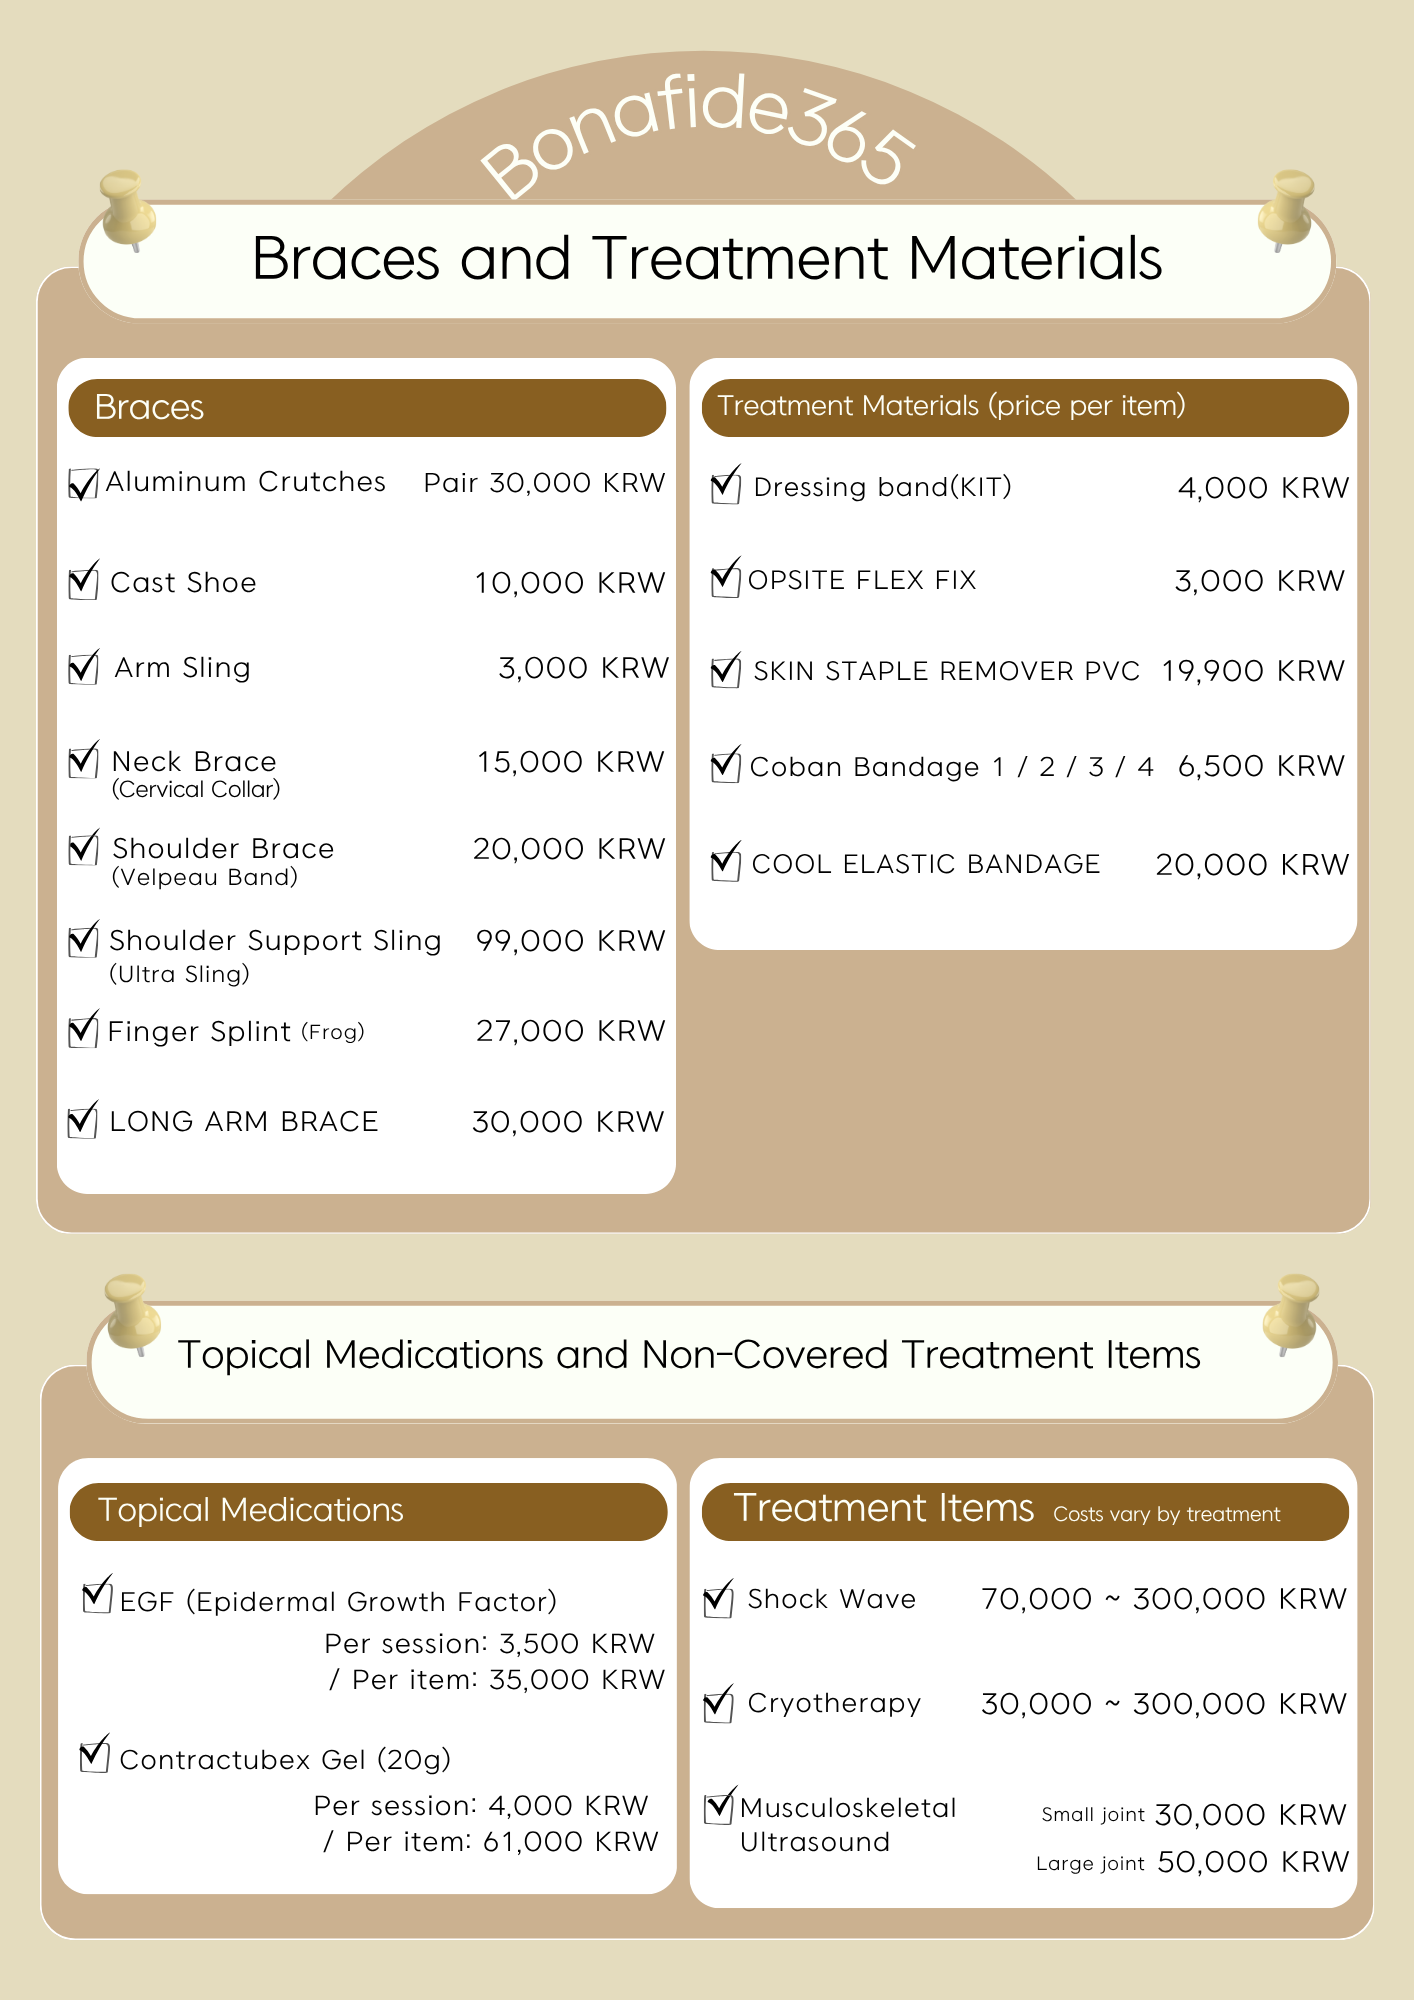
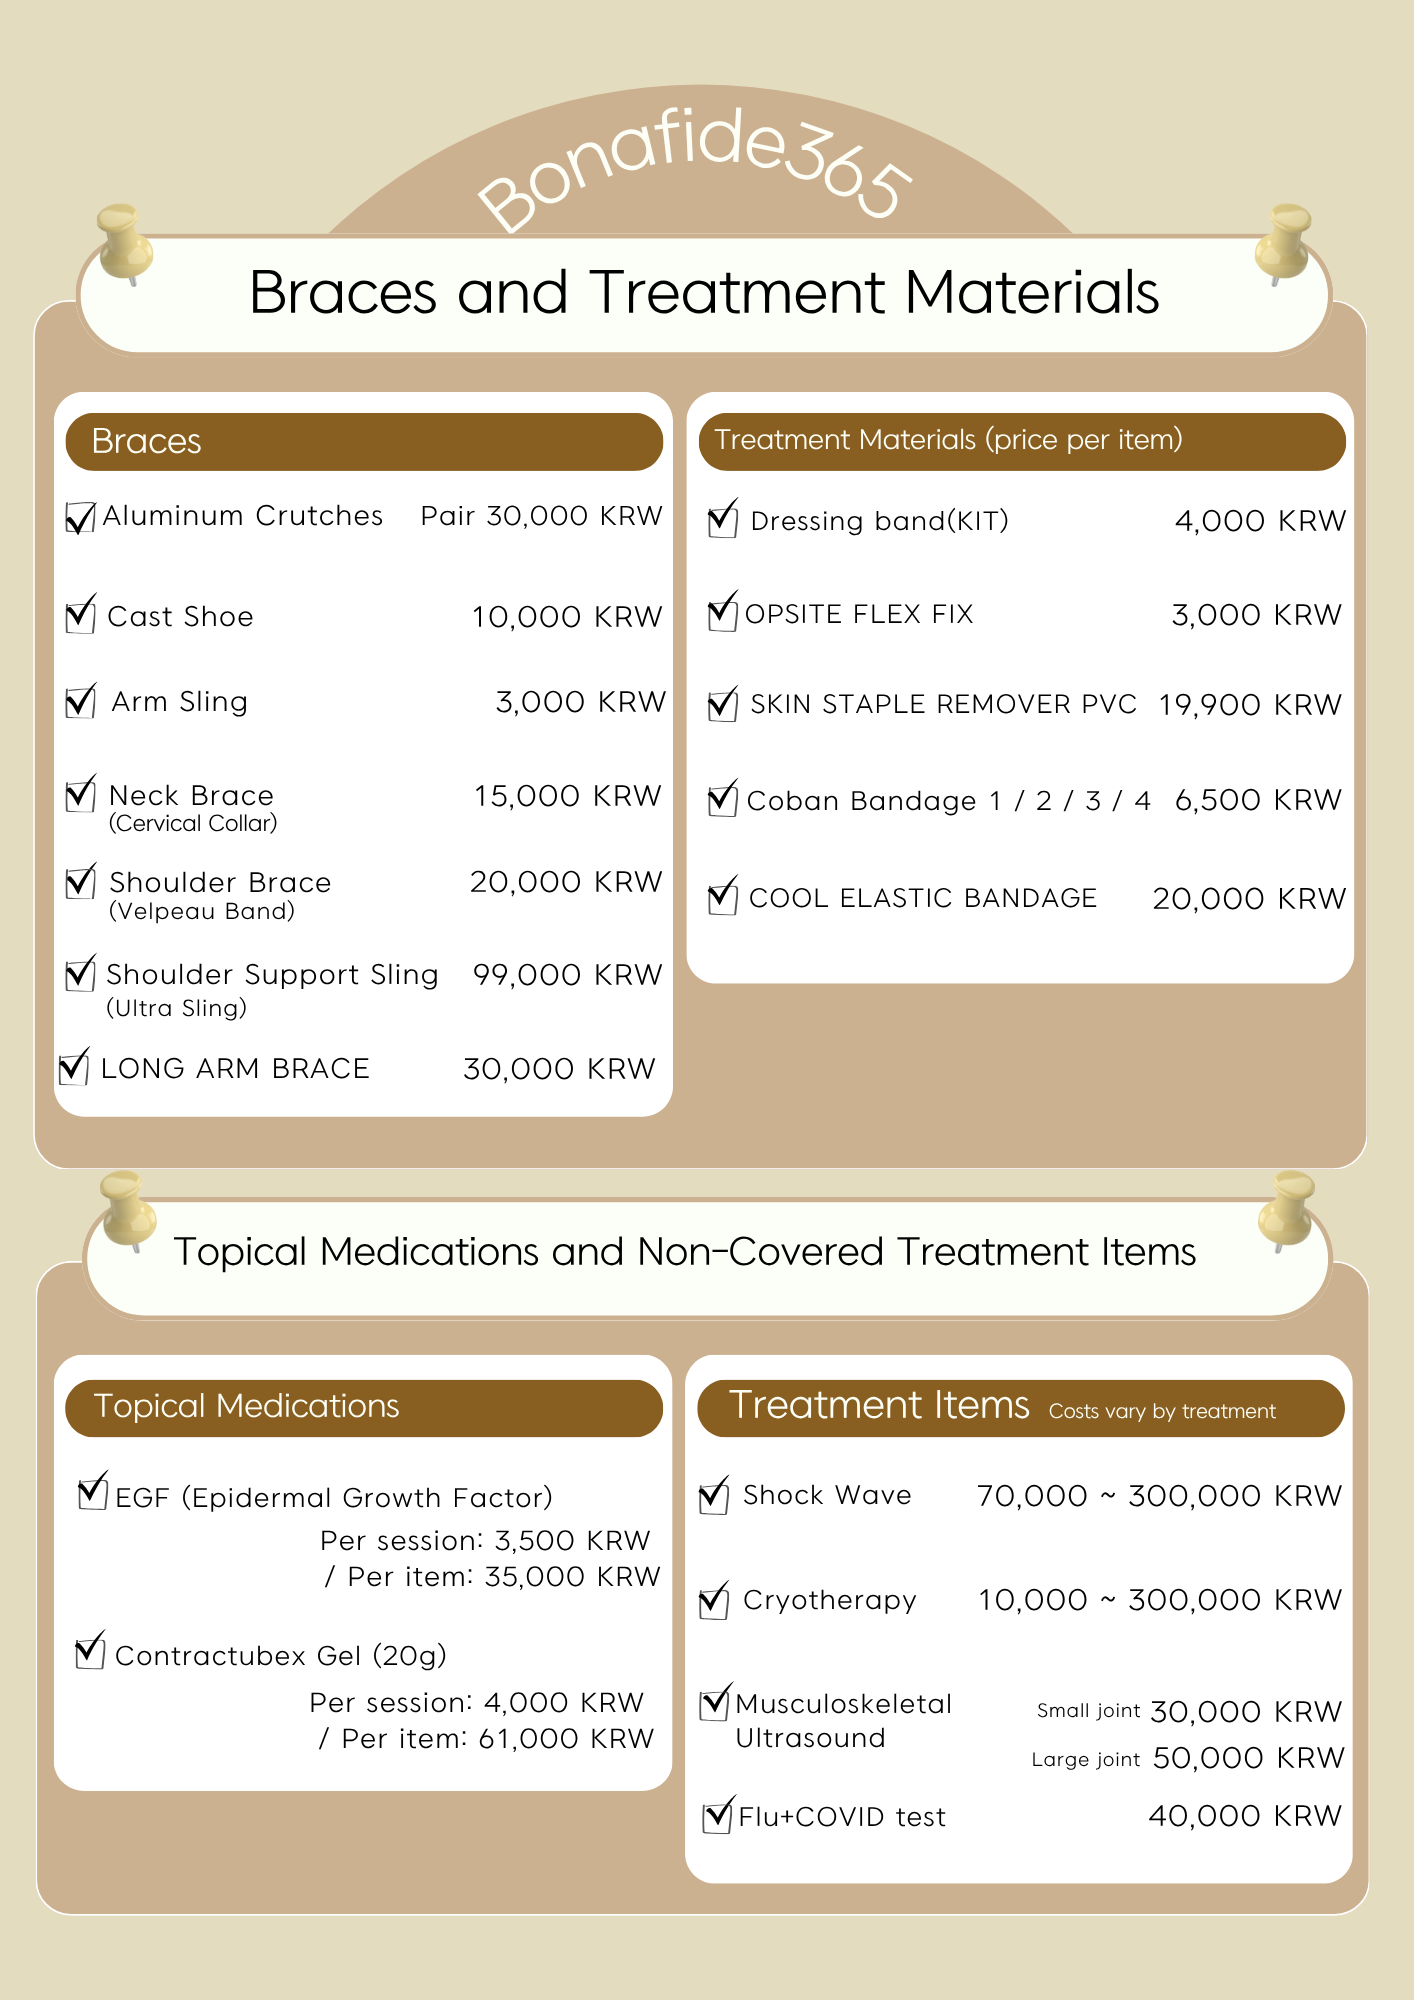
fix: 까치산점 비급여항목안내 (1) 한/영 갱신 + (2) 덮어쓰기 복구
(1) 보호대·치료재료대 장 변경 3건 (한/영 동일 확인)
  손가락보호대(개구리) 27,000원 삭제
  신장분사치료 Cryotherapy  30,000~300,000 -> 10,000~300,000
  독감+코로나 검사 Flu+COVID test 40,000원 신설

받은 파일이 (1) 내용인데 (2) 파일명으로 올라와 있었다. 그대로 두면 슬라이더에서
보호대 장이 두 번 나오고 주사제·수액 장이 사라지므로, 새 내용을 (1) 로 옮기고
(2) 는 직전 커밋의 주사제·수액 장으로 되돌렸다. (2) 는 이번에 내용 변화 없음.

서울대입구점 가격표(루트)는 별도 파일이라 영향 없다.

BANNER_VER 20261011 -> 20261017.

diff --git a/js/i18n.js b/js/i18n.js
@@ -5,7 +5,7 @@
    ───────────────────────────────────────────── */
 
 /* 배너 캐시 버전: 배너 이미지를 같은 파일명으로 교체할 때마다 이 값을 올린다. */
-const BANNER_VER = '20261011';
+const BANNER_VER = '20261017';
 
 const translationMap = {
   ko: {
